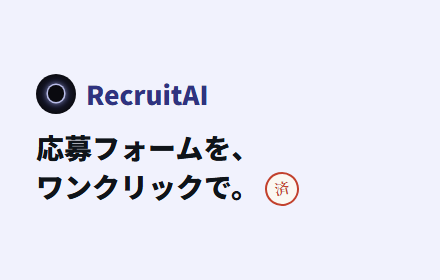
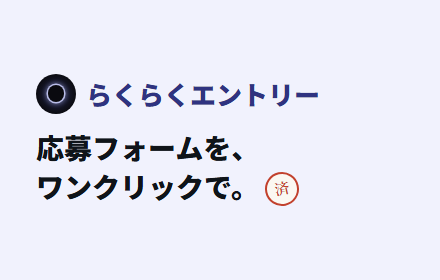
名前を「らくらくエントリー」に変え、中継 API を独自ドメインに移した
- 拡張機能の名前を「らくらくエントリー｜就活エントリー自動入力」に変更
- 中継 API を api.rakuraku-entry.com（カスタムドメイン）で公開し、workers.dev は止めた
- 公開用ビルドの接続先を新しいドメインにした
- プライバシーポリシーに運営者と連絡先を記載
- ストア用のスクリーンショットとプロモ画像を新しい名前で作り直した

Changed region(s): [[0.1773, 0.2857, 0.7386, 0.4]]

diff --git a/store/privacy.html b/store/privacy.html
@@ -3,7 +3,7 @@
   <head>
     <meta charset="UTF-8" />
     <meta name="viewport" content="width=device-width, initial-scale=1" />
-    <title>RecruitAI プライバシーポリシー</title>
+    <title>らくらくエントリー プライバシーポリシー</title>
     <style>
       body { max-width: 720px; margin: 40px auto; padding: 0 20px; color: #0f1419; background: #fff;
         font: 15px/1.8 -apple-system, BlinkMacSystemFont, "Hiragino Sans", "Yu Gothic UI", "Meiryo", sans-serif; }
@@ -16,11 +16,11 @@
     </style>
   </head>
   <body>
-    <h1>RecruitAI プライバシーポリシー</h1>
+    <h1>らくらくエントリー プライバシーポリシー</h1>
     <p class="muted">最終更新日：2026年10月16日</p>
 
     <p>
-      RecruitAI（以下「本拡張機能」）は、就職活動の応募フォームに、利用者が登録したプロフィールを自動で入力する Chrome 拡張機能です。
+      らくらくエントリー（以下「本拡張機能」）は、就職活動の応募フォームに、利用者が登録したプロフィールを自動で入力する Chrome 拡張機能です。
       本ポリシーでは、本拡張機能が扱う情報と、その取り扱いについて説明します。
     </p>
 
@@ -60,7 +60,7 @@
     <p>本拡張機能をアンインストールすると、ブラウザ内に保存したプロフィールなどの情報はすべて削除されます。</p>
 
     <h2>6. お問い合わせ</h2>
-    <p>運営者：［運営者名］<br />連絡先：［お問い合わせ用のメールアドレス］</p>
+    <p>運営者：齋藤稜太<br />連絡先：<a href="mailto:contact@geek-app.com">contact@geek-app.com</a></p>
 
     <h2>7. 改定</h2>
     <p>本ポリシーを変更するときは、このページで告知します。</p>

diff --git a/entrypoints/options/App.tsx b/entrypoints/options/App.tsx
@@ -24,6 +24,7 @@ export default function App() {
   const [saveState, setSaveState] = useState<'saved' | 'saving'>('saved');
   const [toast, setToast] = useState('');
   const saveTimer = useRef<ReturnType<typeof setTimeout>>(undefined);
+  const menuRef = useRef<HTMLDetailsElement>(null);
 
   useEffect(() => {
     (async () => {
@@ -49,6 +50,23 @@ export default function App() {
     return () => {
       unwatch();
       removeEventListener('hashchange', onHash);
+    };
+  }, []);
+
+  // 操作メニューは、外側を押したとき・Esc を押したときにも閉じる
+  useEffect(() => {
+    const close = () => menuRef.current?.removeAttribute('open');
+    const onDown = (e: PointerEvent) => {
+      if (menuRef.current?.open && !menuRef.current.contains(e.target as Node)) close();
+    };
+    const onKey = (e: KeyboardEvent) => {
+      if (e.key === 'Escape') close();
+    };
+    document.addEventListener('pointerdown', onDown);
+    document.addEventListener('keydown', onKey);
+    return () => {
+      document.removeEventListener('pointerdown', onDown);
+      document.removeEventListener('keydown', onKey);
     };
   }, []);
 
@@ -139,11 +157,11 @@ export default function App() {
               ))}
             </select>
           </div>
-          <details className="menu">
+          <details className="menu" ref={menuRef}>
             <summary aria-label="プロフィールの操作">
               <MoreHorizontal size={18} />
             </summary>
-            <div className="menu-pop">
+            <div className="menu-pop" onClick={() => menuRef.current?.removeAttribute('open')}>
               <button onClick={() => addProfile()}>
                 <Plus size={15} />
                 新しいプロフィール

diff --git a/test/fixtures/cases.ts b/test/fixtures/cases.ts
@@ -845,4 +845,24 @@ export const CASES: Case[] = [
     html: `<form><label>性別 <select name="c44">${opts(['男性', '女性'])}</select></label></form>`,
     expect: { '[name=c44]': '' },
   },
+  {
+    name: '飾りで覆ったプルダウン・ラジオ（-▼- の先頭、◆付きの見出し、リセットボタン）',
+    html: `<style>.u-sel{position:relative;display:inline-block;width:120px;height:40px}.u-sel select{position:absolute;inset:0;opacity:0;width:100%;height:100%}.u-rad{display:inline-block;width:20px;height:20px}.u-rad input{opacity:0;margin:0;width:20px;height:20px}</style>
+    <form><table>
+      <tr><th colspan="2">お名前</th></tr>
+      <tr><th>◆漢字氏名<br><small>（全角入力のみ）</small></th><td>姓：<input name="u1a"> 名：<input name="u1b"></td></tr>
+      <tr><th colspan="2">生年月日・性別</th></tr>
+      <tr><th>◆生年月日</th><td>
+        <div class="u-sel"><span>-▼-</span><select name="u2y">${opts(range(1980, 2008).map(String), '-▼-')}</select></div> 年
+        <div class="u-sel"><span>-▼-</span><select name="u2m">${opts(range(1, 12).map(String), '-▼-')}</select></div> 月
+        <div class="u-sel"><span>-▼-</span><select name="u2d">${opts(range(1, 31).map(String), '-▼-')}</select></div> 日
+      </td></tr>
+      <tr><th>◆性別</th><td>
+        <label><div class="u-rad"><input type="radio" name="u3" value="1"></div>男</label>
+        <label><div class="u-rad"><input type="radio" name="u3" value="2"></div>女</label>
+        <input type="button" value="リセット">
+      </td></tr>
+    </table></form>`,
+    expect: { '[name=u1a]': '山田', '[name=u2y]': '1999', '[name=u2m]': '4', '[name=u2d]': '1', 'radio:u3': '男' },
+  },
 ];

diff --git a/wxt.config.ts b/wxt.config.ts
@@ -7,7 +7,7 @@ import { defineConfig } from 'wxt';
 const release = process.env.npm_lifecycle_event?.endsWith(':release') ?? false;
 
 /** 公開した中継 API の URL（worker/ を deploy したあとに入れる） */
-const PROD_API_URL = '';
+const PROD_API_URL = 'https://api.rakuraku-entry.com';
 const apiUrl = release ? PROD_API_URL : (process.env.API_URL ?? 'http://localhost:8787');
 if (release && !PROD_API_URL) {
   throw new Error('wxt.config.ts の PROD_API_URL に、公開した中継 API の URL を入れてください');
@@ -22,11 +22,11 @@ export default defineConfig({
     define: { __API_URL__: JSON.stringify(apiUrl) },
   }),
   manifest: {
-    name: 'RecruitAI',
+    name: 'らくらくエントリー｜就活エントリー自動入力',
     description: '応募フォームの氏名・生年月日などを、保存したプロフィールから自動で入力します',
     permissions: ['activeTab', 'scripting', 'storage'],
     host_permissions: [`${new URL(apiUrl).origin}/*`],
-    action: { default_title: 'RecruitAI' },
+    action: { default_title: 'らくらくエントリー' },
     commands: {
       'fill-page': {
         suggested_key: { default: 'Alt+Shift+F' },

diff --git a/store/screens/shot3.html b/store/screens/shot3.html
@@ -9,13 +9,13 @@
   </head>
   <body>
     <div class="copy">
-      <div class="brand"><span class="orb"></span>RecruitAI</div>
+      <div class="brand"><span class="orb"></span>らくらくエントリー</div>
       <h1>プロフィールは、<br />あなたの端末の<br />中だけに。</h1>
       <p>まずは氏名と連絡先だけでOK。細かい項目は、聞かれたときに足していけます。</p>
     </div>
     <div class="stage">
       <div class="window">
-        <div class="chrome"><i></i><i></i><i></i><span>RecruitAI 設定</span></div>
+        <div class="chrome"><i></i><i></i><i></i><span>らくらくエントリー 設定</span></div>
         <div class="page"><iframe data-src="/test/options.html#basic" title="options"></iframe></div>
       </div>
     </div>

diff --git a/entrypoints/content.ts b/entrypoints/content.ts
@@ -65,7 +65,7 @@ export default defineContentScript({
           case 'fill': {
             const [profile, settings] = await Promise.all([getActiveProfile(), getSettings()]);
             if (!profile) {
-              if (window === window.top) filler.notice('プロフィールが未登録です。RecruitAI のアイコンから登録してください');
+              if (window === window.top) filler.notice('プロフィールが未登録です。らくらくエントリー のアイコンから登録してください');
               return { detected: 0, filled: 0, warn: 0, reviews: [], error: 'no-profile' };
             }
             await linkSophon();

diff --git a/store/screens/shot1.html b/store/screens/shot1.html
@@ -19,7 +19,7 @@
   </head>
   <body>
     <div class="copy">
-      <div class="brand"><span class="orb"></span>RecruitAI</div>
+      <div class="brand"><span class="orb"></span>らくらくエントリー</div>
       <h1>応募フォームを、<br />ワンクリックで。</h1>
       <p>登録したプロフィールを、企業ごとに違うフォームに合わせて入力。和暦や全角・半角も自動で合わせます。</p>
     </div>

diff --git a/store/screens/shot2.html b/store/screens/shot2.html
@@ -10,7 +10,7 @@
   </head>
   <body>
     <div class="copy">
-      <div class="brand"><span class="orb"></span>RecruitAI</div>
+      <div class="brand"><span class="orb"></span>らくらくエントリー</div>
       <h1>迷った欄は、<br />Sophon が<br />確認します。</h1>
       <p>見出しだけでは分からない欄は AI が判定。自信がないところは「確認」として、選び直せます。</p>
     </div>

diff --git a/entrypoints/background.ts b/entrypoints/background.ts
@@ -27,7 +27,7 @@ export default defineBackground(() => {
     try {
       await runInTab(tabId, 'fill');
     } catch (e) {
-      console.warn('[RecruitAI] このページには入力できません', e);
+      console.warn('[らくらくエントリー] このページには入力できません', e);
     }
   });
 

diff --git a/store/screens/tile.html b/store/screens/tile.html
@@ -16,7 +16,7 @@
     </style>
   </head>
   <body>
-    <div class="brand"><span class="orb"></span>RecruitAI</div>
+    <div class="brand"><span class="orb"></span>らくらくエントリー</div>
     <h1>応募フォームを、<br />ワンクリックで。<span class="stamp">済</span></h1>
   </body>
 </html>

diff --git a/entrypoints/options/index.html b/entrypoints/options/index.html
@@ -3,7 +3,7 @@
   <head>
     <meta charset="UTF-8" />
     <meta name="viewport" content="width=device-width, initial-scale=1.0" />
-    <title>RecruitAI 設定</title>
+    <title>らくらくエントリー 設定</title>
     <meta name="manifest.open_in_tab" content="true" />
   </head>
   <body>

diff --git a/entrypoints/popup/index.html b/entrypoints/popup/index.html
@@ -3,7 +3,7 @@
   <head>
     <meta charset="UTF-8" />
     <meta name="viewport" content="width=device-width, initial-scale=1.0" />
-    <title>RecruitAI</title>
+    <title>らくらくエントリー</title>
     <meta name="manifest.type" content="browser_action" />
   </head>
   <body>
